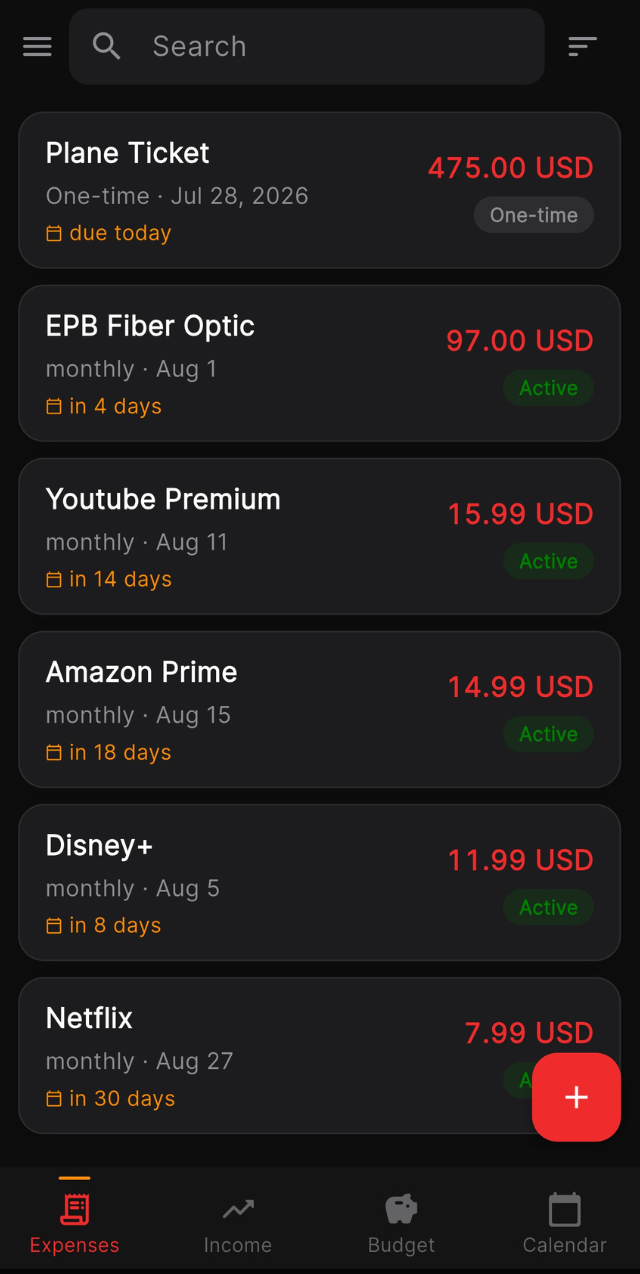
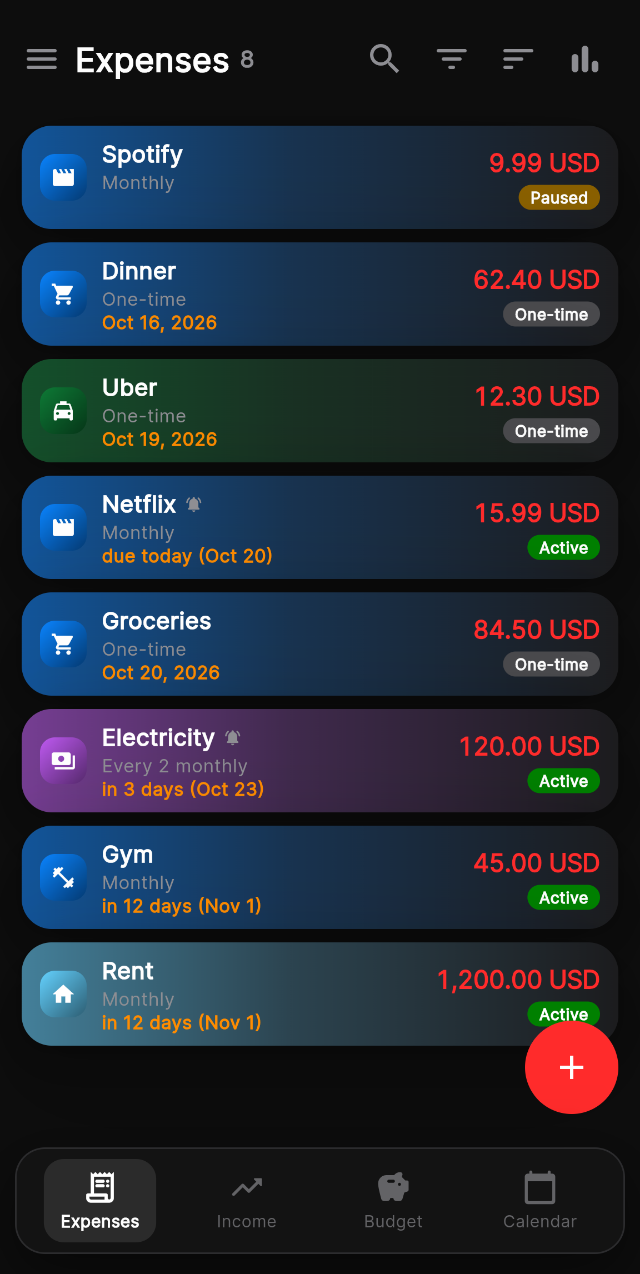
feat: EXPN page uses the 2.3 screenshots and lists supported devices
Re-crop all six phone frames from the new Android 2.3 store art with
the same geometry as before. The calendar art carries a ghost of the
old tab bar below the new one, so that slot is cropped just above it
and extended with the app background. Add a Compatibility section
naming the newest screens the layout adapts to, with its own marker
on the scrollbar map.

diff --git a/expn/index.html b/expn/index.html
@@ -20,7 +20,7 @@
   <link rel="preconnect" href="https://fonts.googleapis.com">
   <link rel="preconnect" href="https://fonts.gstatic.com" crossorigin>
   <link rel="stylesheet" href="https://fonts.googleapis.com/css2?family=Inter:wght@400;500;600;700;800&display=swap">
-  <link rel="stylesheet" href="expn.css?v=8">
+  <link rel="stylesheet" href="expn.css?v=9">
 </head>
 <body>
 
@@ -221,6 +221,28 @@
             <p>Smart suggestions autocomplete what you type. Search, sort, reorder, and multi-select to archive or delete with undo.</p>
           </article>
         </div>
+      </div>
+    </section>
+
+    <!-- DEVICES -->
+    <section class="devices" data-sb="Devices">
+      <div class="container devices-wrap" data-reveal>
+        <div class="devices-copy">
+          <p class="eyebrow">Compatibility</p>
+          <h2>Made for the newest screens.</h2>
+          <p>EXPN adapts its layout to every display, from the outer and inner screens of the iPhone Duo to a Galaxy Z Fold 8 unfolded and the 13-inch iPad Pro. Phones, foldables and tablets, in portrait or landscape, with full right-to-left layouts.</p>
+        </div>
+        <ul class="device-list" aria-label="Supported devices">
+          <li>iPhone Duo</li>
+          <li>iPhone 17 Pro and Pro Max</li>
+          <li>iPhone 17 and 17 Air</li>
+          <li>iPad Pro 13-inch</li>
+          <li>Galaxy Z Fold 8</li>
+          <li>Galaxy Z Flip 8</li>
+          <li>Galaxy S26 Ultra</li>
+          <li>Pixel 10 Pro Fold</li>
+          <li>Android tablets</li>
+        </ul>
       </div>
     </section>
 

diff --git a/expn/expn.css b/expn/expn.css
@@ -278,6 +278,17 @@ h3 { font-size: clamp(1.15rem, 2vw, 1.5rem); letter-spacing: -0.02em; }
 .tile-stat { justify-content: center; }
 .stat { font-size: clamp(2.6rem, 4.5vw, 3.6rem); font-weight: 800; letter-spacing: -0.04em; line-height: 1; color: var(--accent); }
 
+/* Devices */
+.devices { padding: clamp(32px, 4vw, 56px) 0; }
+.devices-wrap { display: grid; grid-template-columns: 1fr 1fr; gap: clamp(24px, 5vw, 72px); align-items: center; }
+.devices-copy p:not(.eyebrow) { color: var(--muted); font-size: 1.05rem; margin-top: 18px; max-width: 52ch; }
+.device-list { display: flex; flex-wrap: wrap; gap: 10px; }
+.device-list li {
+  padding: 10px 16px; border-radius: 999px; font-weight: 600; font-size: 0.95rem;
+  background: var(--surface); border: 1px solid var(--line); transition: border-color .2s, color .2s;
+}
+.device-list li:hover { border-color: rgba(255,140,0,0.5); color: var(--accent); }
+
 /* Privacy */
 .privacy { padding: clamp(32px, 4vw, 56px) 0; }
 .privacy-wrap {
@@ -353,6 +364,7 @@ html.js .feature-step[data-reveal] { transform: none; }
   .phone-inline { display: block; width: 240px; margin: 26px auto 0; }
   .bento-grid { grid-template-columns: repeat(2, 1fr); }
   .privacy-wrap { grid-template-columns: 1fr; }
+  .devices-wrap { grid-template-columns: 1fr; }
   .price-grid { grid-template-columns: 1fr; }
 }
 @media (max-width: 560px) {

diff --git a/README.md b/README.md
@@ -17,14 +17,14 @@ on a `<span>` for a store that is not live yet.
 (vanilla, no dependencies). It loads Inter from Google Fonts; that is the only external resource.
 
 Screenshots live in `assets/expn/` as `shot-1.png` to `shot-6.png`. They are all cropped from the
-Android store art in `/mnt/user/projects/expn-screenshots/android/` (inner screen x 243 to 883,
+Android store art in `/mnt/user/projects/expn-screenshots/android-2.3 (1125x2000)/` (inner screen x 243 to 883,
 1274px tall starting below the status bar, nav bar excluded) with Pillow in Docker, so every frame
 has identical chrome. Mapping:
 
 1. `shot-1` hero: Expenses (android/2)
 2. `shot-2` Trends, savings rate and cash flow (android/6)
 3. `shot-3` Stats overview (android/1)
-4. `shot-4` Calendar, used for the reminders step (android/5, crop starts at y=518)
+4. `shot-4` Calendar, used for the reminders step (android/5, crop y=518 to 1748, bottom filled with the app background because the art has a ghost tab bar below the real one)
 5. `shot-5` Budgets (android/4)
 6. `shot-6` Income (android/3), currently unused
 
